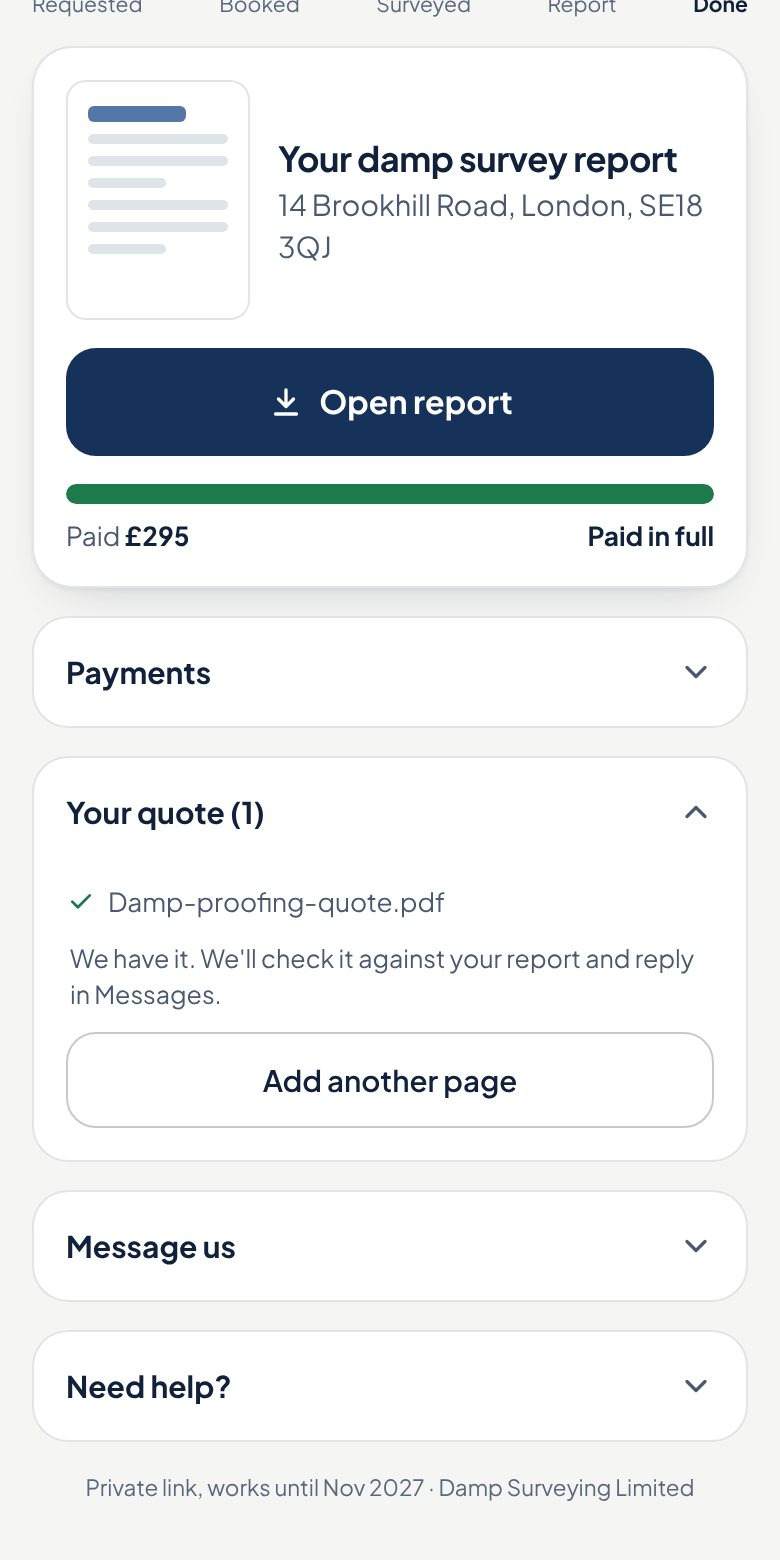
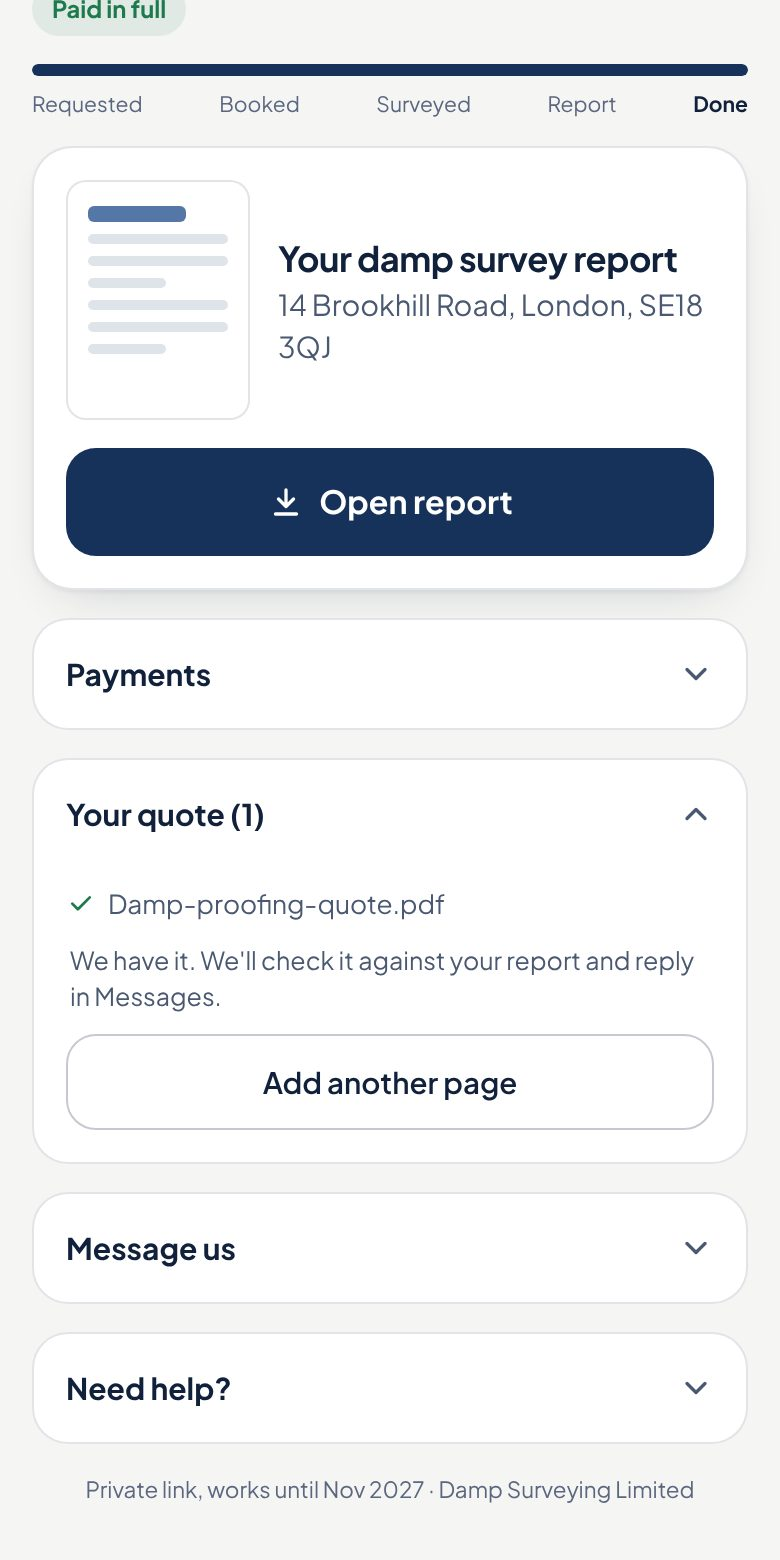
Lab home page preview: Apple Pay, no amounts, the six steps on one line
The tour's screens show no money: the pay screen is the page as an iPhone sees
it, with its Apple Pay button and the amounts left out, and the deposit reads
as received. On a phone the six step labels sit on one line, sized to the
screen.

Claude-Session: https://claude.ai/code/session_017ddpv8HaVBhG9f4NgcrNU8

diff --git a/public/staff/home-trial-new-dampscan.html b/public/staff/home-trial-new-dampscan.html
@@ -298,7 +298,7 @@ html{scroll-padding-top:88px}
 
 </style>
 <script>document.documentElement.classList.remove('no-js')</script>
-<link rel="stylesheet" href="/assets/tour.css?v=e6a7e6c4" />
+<link rel="stylesheet" href="/assets/tour.css?v=80b3f533" />
 <script src="/assets/tour.js?v=78fbf5ae" defer></script>
 </head>
 <body>
@@ -552,7 +552,7 @@ html{scroll-padding-top:88px}
         <li><span class="yp-num">6</span><div><strong>Got a quote for the work? We check it, free</strong><span>Send any quote you are given and we will check it against your report: what it covers, what it misses, what you do not need.</span></div></li>
       </ol>
     </div>
-    <div class="yp-phone" aria-hidden="true"><div class="yp-screen"><img src="/assets/tour/dampscan-1.jpg" alt="" loading="lazy" decoding="async" width="390" height="780" /><img src="/assets/tour/dampscan-2.jpg" alt="" loading="lazy" decoding="async" width="390" height="780" /><img src="/assets/tour/dampscan-3.jpg" alt="" loading="lazy" decoding="async" width="390" height="780" /><img src="/assets/tour/dampscan-4.jpg" alt="" loading="lazy" decoding="async" width="390" height="780" /><img src="/assets/tour/dampscan-5.jpg" alt="" loading="lazy" decoding="async" width="390" height="780" /><img src="/assets/tour/dampscan-6.jpg" alt="" loading="lazy" decoding="async" width="390" height="780" /></div><div class="yp-subs"><span>Tap Pay: Apple Pay, Google Pay or card. Booked.</span><span>Plans changed? Pick a new time yourself.</span><span>Questions or photos? Message us. Our replies stay here.</span><span>On the day, see when your surveyor is on the way.</span><span>Paid in full? Your report opens right here.</span><span>Got a quote for the work? Send it. We'll check it, free.</span></div></div>
+    <div class="yp-phone" aria-hidden="true"><div class="yp-screen"><img src="/assets/tour/dampscan-1.jpg" alt="" loading="lazy" decoding="async" width="390" height="780" /><img src="/assets/tour/dampscan-2.jpg" alt="" loading="lazy" decoding="async" width="390" height="780" /><img src="/assets/tour/dampscan-3.jpg" alt="" loading="lazy" decoding="async" width="390" height="780" /><img src="/assets/tour/dampscan-4.jpg" alt="" loading="lazy" decoding="async" width="390" height="780" /><img src="/assets/tour/dampscan-5.jpg" alt="" loading="lazy" decoding="async" width="390" height="780" /><img src="/assets/tour/dampscan-6.jpg" alt="" loading="lazy" decoding="async" width="390" height="780" /></div><div class="yp-subs"><span>Tap Pay with Apple Pay. You're booked.</span><span>Plans changed? Pick a new time yourself.</span><span>Questions or photos? Message us. Our replies stay here.</span><span>On the day, see when your surveyor is on the way.</span><span>Paid in full? Your report opens right here.</span><span>Got a quote for the work? Send it. We'll check it, free.</span></div></div>
     <div class="yp-steps" aria-hidden="true"><span>Pay</span><span>Move</span><span>Message</span><span>On the way</span><span>Report</span><span>Quote check</span></div>
   </div>
 </section>

diff --git a/public/staff/home-trial-new-ati.html b/public/staff/home-trial-new-ati.html
@@ -310,7 +310,7 @@ html{scroll-padding-top:88px}
 
 </style>
 <script>document.documentElement.classList.remove('no-js')</script>
-<link rel="stylesheet" href="/assets/tour.css?v=e6a7e6c4" />
+<link rel="stylesheet" href="/assets/tour.css?v=80b3f533" />
 <script src="/assets/tour.js?v=78fbf5ae" defer></script>
 </head>
 <body>
@@ -567,7 +567,7 @@ html{scroll-padding-top:88px}
         <li><span class="yp-num">6</span><div><strong>Got a quote for the work? We check it, free</strong><span>Send any quote you are given and we will check it against your report: what it covers, what it misses, what you do not need.</span></div></li>
       </ol>
     </div>
-    <div class="yp-phone" aria-hidden="true"><div class="yp-screen"><img src="/assets/tour/ati-1.jpg" alt="" loading="lazy" decoding="async" width="390" height="780" /><img src="/assets/tour/ati-2.jpg" alt="" loading="lazy" decoding="async" width="390" height="780" /><img src="/assets/tour/ati-3.jpg" alt="" loading="lazy" decoding="async" width="390" height="780" /><img src="/assets/tour/ati-4.jpg" alt="" loading="lazy" decoding="async" width="390" height="780" /><img src="/assets/tour/ati-5.jpg" alt="" loading="lazy" decoding="async" width="390" height="780" /><img src="/assets/tour/ati-6.jpg" alt="" loading="lazy" decoding="async" width="390" height="780" /></div><div class="yp-subs"><span>Tap Pay: Apple Pay, Google Pay or card. Booked.</span><span>Plans changed? Pick a new time yourself.</span><span>Questions or photos? Message us. Our replies stay here.</span><span>On the day, see when your surveyor is on the way.</span><span>Paid in full? Your report opens right here.</span><span>Got a quote for the work? Send it. We'll check it, free.</span></div></div>
+    <div class="yp-phone" aria-hidden="true"><div class="yp-screen"><img src="/assets/tour/ati-1.jpg" alt="" loading="lazy" decoding="async" width="390" height="780" /><img src="/assets/tour/ati-2.jpg" alt="" loading="lazy" decoding="async" width="390" height="780" /><img src="/assets/tour/ati-3.jpg" alt="" loading="lazy" decoding="async" width="390" height="780" /><img src="/assets/tour/ati-4.jpg" alt="" loading="lazy" decoding="async" width="390" height="780" /><img src="/assets/tour/ati-5.jpg" alt="" loading="lazy" decoding="async" width="390" height="780" /><img src="/assets/tour/ati-6.jpg" alt="" loading="lazy" decoding="async" width="390" height="780" /></div><div class="yp-subs"><span>Tap Pay with Apple Pay. You're booked.</span><span>Plans changed? Pick a new time yourself.</span><span>Questions or photos? Message us. Our replies stay here.</span><span>On the day, see when your surveyor is on the way.</span><span>Paid in full? Your report opens right here.</span><span>Got a quote for the work? Send it. We'll check it, free.</span></div></div>
     <div class="yp-steps" aria-hidden="true"><span>Pay</span><span>Move</span><span>Message</span><span>On the way</span><span>Report</span><span>Quote check</span></div>
   </div>
 </section>

diff --git a/public/assets/tour.css b/public/assets/tour.css
@@ -16,8 +16,9 @@
   .yp-list,.yp-text>.eyebrow,.yp-text>p{display:none}
   .yp-grid .yp-phone{order:3;width:min(220px,58vw);padding:9px;border-radius:38px}
   .yp-grid .yp-screen{border-radius:30px}
-  .yp-steps{order:2;display:flex;justify-content:center;gap:6px;flex-wrap:wrap}
-  .yp-steps span{font-size:12px;font-weight:600;color:var(--muted);padding:6px 10px;border-radius:999px;border:1px solid var(--line);
+  /* One line of six on a phone (the owner, 22 Nov 2026), sized to the screen's width. */
+  .yp-steps{order:2;display:flex;justify-content:center;gap:3px;flex-wrap:nowrap}
+  .yp-steps span{flex:none;white-space:nowrap;font-size:clamp(9.5px,2.6vw,12.5px);font-weight:600;color:var(--muted);padding:5px clamp(4px,1.4vw,10px);border-radius:999px;border:1px solid var(--line);
     animation:yp-step 24s infinite;animation-play-state:paused}
   .yp-steps span:nth-child(2){animation-delay:4s}.yp-steps span:nth-child(3){animation-delay:8s}.yp-steps span:nth-child(4){animation-delay:12s}.yp-steps span:nth-child(5){animation-delay:16s}.yp-steps span:nth-child(6){animation-delay:20s}
   .yp.is-live .yp-steps span{animation-play-state:running}

diff --git a/scripts/home-tour.js b/scripts/home-tour.js
@@ -13,7 +13,7 @@ const ITEMS = [
   ['Your report the moment it is ready', 'Pay the balance and open the report on your phone.'],
   ['Got a quote for the work? We check it, free', 'Send any quote you are given and we will check it against your report: what it covers, what it misses, what you do not need.']
 ];
-const SUBS = ['Tap Pay: Apple Pay, Google Pay or card. Booked.', 'Plans changed? Pick a new time yourself.', 'Questions or photos? Message us. Our replies stay here.',
+const SUBS = ['Tap Pay with Apple Pay. You\'re booked.', 'Plans changed? Pick a new time yourself.', 'Questions or photos? Message us. Our replies stay here.',
   'On the day, see when your surveyor is on the way.', 'Paid in full? Your report opens right here.', 'Got a quote for the work? Send it. We\'ll check it, free.'];
 const STEPS = ['Pay', 'Move', 'Message', 'On the way', 'Report', 'Quote check'];
 const SERVICES = '<!-- ============================= SERVICES ============================= -->';

diff --git a/public/staff/home-trial-agents-ati.html b/public/staff/home-trial-agents-ati.html
@@ -20,7 +20,7 @@
 <link rel="stylesheet" href="/assets/header.css?v=0e4145f6" />
 <link rel="stylesheet" href="/assets/area.css?v=e702af0f" />
 <link rel="stylesheet" href="/assets/book.css?v=cf3d6b50" />
-<link rel="stylesheet" href="/assets/tour.css?v=e6a7e6c4" />
+<link rel="stylesheet" href="/assets/tour.css?v=80b3f533" />
 <link rel="stylesheet" href="/assets/agents-page.css?v=39ef5077" />
 <style>:root{--head-bg:rgba(245,245,243,.9);--head-solid:#f5f5f3}</style>
 <script>document.documentElement.classList.remove('no-js')</script>
